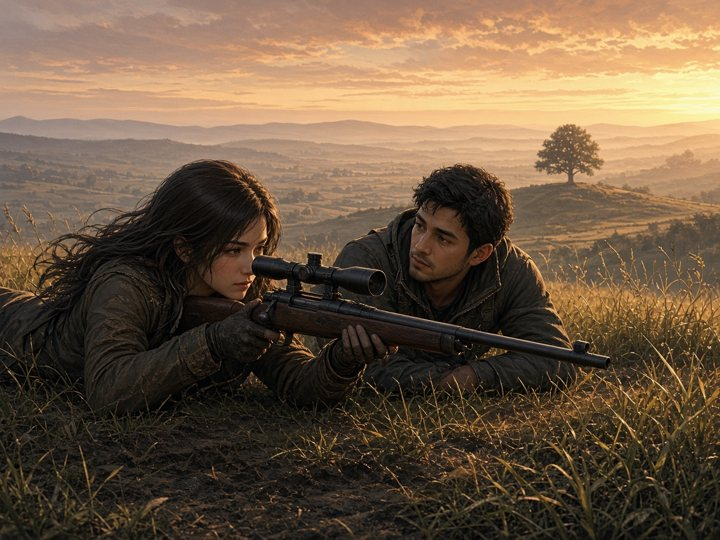
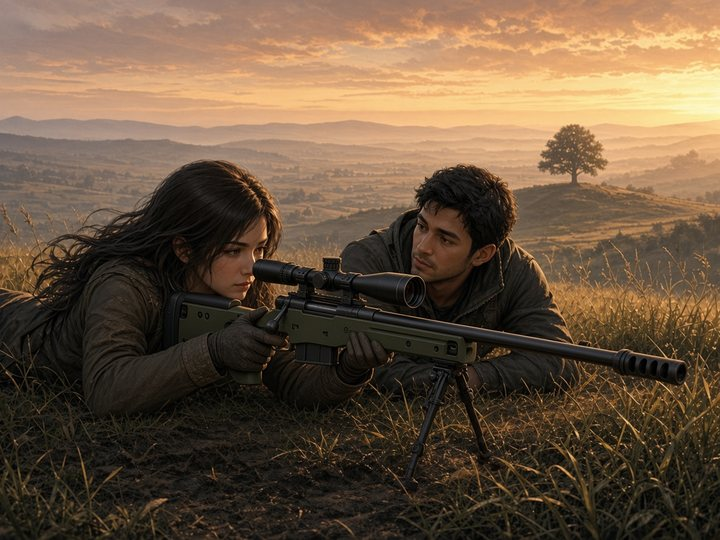
update 2026-11-14 23:51:23

diff --git a/pubg/zone.html b/pubg/zone.html
@@ -361,7 +361,7 @@
       .ev-intro { font-size: 15px; } .ev-lines li { font-size: 16px; } .ev-note { font-size: 14px; } .ev-feed { font-size: 15px; }
       .ev-actions { justify-content: stretch; } .ev-next { width: 100%; }
     }
-    /* ===== Финальная мини-игра: снайпер (M24) ===== */
+    /* ===== Финальная мини-игра: снайпер (AWM из аирдропа) ===== */
     #sniper {
       position: fixed; inset: 0; z-index: 22; background: #000;
       opacity: 0; pointer-events: none; transition: opacity .45s ease;
@@ -473,7 +473,7 @@
     <div id="sniperFlash"></div>
     <div class="sn-top" id="snTop">Последний враг. <b>Прицелься</b> в каску и стреляй</div>
     <div class="sn-msg" id="snMsg">Мимо! Ещё раз</div>
-    <div class="sn-kill" id="snKill"><span class="k-v">Vika</span> ➤ Enemy, M24, <span class="k-hs">headshot</span></div>
+    <div class="sn-kill" id="snKill"><span class="k-v">Vika</span> ➤ Enemy, AWM, <span class="k-hs">headshot</span></div>
     <button id="shotBtn" type="button" aria-label="Выстрел">ШОТ</button>
   </div>
   <div class="victory" id="victory" aria-hidden="true">
@@ -1280,7 +1280,7 @@
       if (k === 8) {
         finished = true;
         panel.classList.add("hidden");
-        /* Финал: Женя нокает первого (4→3), последнего снимает Вика из M24 (мини-игра) → 2 → победа. */
+        /* Финал: Женя нокает первого (4→3), последнего снимает Вика из AWM (мини-игра) → 2 → победа. */
         phase = "finale";
         await wait(550);
         appendKillLine(FINALE_KILLS[0], false);
@@ -1843,7 +1843,7 @@
       await Sniper.start();
       document.body.classList.remove("sniper-on");
       if (window.QuestHUD && QuestHUD.layout) QuestHUD.layout();
-      appendKillLine({ tag: "[F4M]", name: "Marusabelle", action: "убила", enemy: "Enemy_2 · M24 · хедшот" }, false);
+      appendKillLine({ tag: "[F4M]", name: "Marusabelle", action: "убила", enemy: "Enemy_2 · AWM · хедшот" }, false);
       setAlive(2);
       Sniper.hide();
       showVictory();
